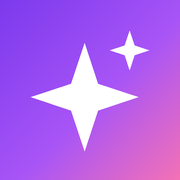
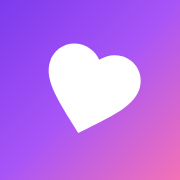
Add files via upload

Changed region(s): [[0.1667, 0.1667, 0.8333, 0.8333]]

diff --git a/style.css b/style.css
@@ -54,14 +54,10 @@ button:focus-visible{outline:2px solid var(--brand);outline-offset:2px}
 *{-webkit-tap-highlight-color:transparent}
 button,.card,.room,.gt,.ib{-webkit-user-select:none;user-select:none;-webkit-touch-callout:none;touch-action:manipulation}
 
-/* ── Logo with spark ── */
+/* ── Logo ── */
 .logo-wrap{display:flex;align-items:center;gap:0}
[1 lines of base64/hex data omitted]
 .logo{font-family:'Bricolage Grotesque','Manrope',system-ui,sans-serif;font-size:30px;font-weight:800;letter-spacing:-1.2px;background:var(--grad);-webkit-background-clip:text;background-clip:text;color:transparent;-webkit-text-fill-color:transparent;padding-right:2px}
-.logo-spark{font-size:20px;display:inline-block;margin-left:3px;animation:sparkle 3.5s ease-in-out infinite;will-change:transform,opacity;transform-origin:center}
-@keyframes sparkle{
-  0%,100%{transform:scale(.9) rotate(0deg);opacity:1}
-  50%{transform:scale(1.2) rotate(12deg);opacity:.55}
-}
 
 .ib{background:var(--card);border:1px solid var(--line);width:42px;height:42px;border-radius:14px;display:grid;place-items:center;cursor:pointer;box-shadow:0 6px 16px -8px var(--glow);transition:.2s}
 .ib:active{transform:scale(.92)}
@@ -202,7 +198,7 @@ nav button.on::before{content:"";position:absolute;top:-9px;width:30px;height:4p
 .wave-btn{animation:wave 1.8s ease-in-out infinite;transform-origin:70% 70%;display:inline-block}
 @keyframes wave{0%,100%{transform:rotate(0deg)}15%{transform:rotate(14deg)}30%{transform:rotate(-8deg)}40%{transform:rotate(10deg)}50%{transform:rotate(-4deg)}60%{transform:rotate(0deg)}}
 
-@media(prefers-reduced-motion:reduce){*:not(.fab):not(.logo-spark):not(.mod):not(.sheet){transition:none!important;animation:none!important}}
+@media(prefers-reduced-motion:reduce){*:not(.fab):not(.mod):not(.sheet){transition:none!important;animation:none!important}}
 
 .fc.on{background:var(--grad) border-box}
 .me-body,.col-l,.col-r{display:contents}
@@ -306,8 +302,8 @@ nav button.on::before{content:"";position:absolute;top:-9px;width:30px;height:4p
 
   nav{top:0;bottom:0;left:max(0px,calc(50% - 680px));transform:none;width:72px;max-width:none;overflow:hidden;white-space:nowrap;flex-direction:column;justify-content:flex-start;gap:6px;padding:24px 14px;border-top:0;border-right:1px solid var(--line);box-shadow:none;background:color-mix(in srgb,var(--card) 70%,transparent);transition:width .25s var(--ease),box-shadow .25s,background .25s}
   nav:hover,nav:has(:focus-visible){width:240px;background:var(--card);box-shadow:20px 0 50px -20px var(--glow)}
-  nav::before{content:"✦";display:block;padding:4px 11px 26px;font-size:32px;font-weight:800;letter-spacing:-1.2px;background:var(--grad);-webkit-background-clip:text;background-clip:text;color:transparent;-webkit-text-fill-color:transparent}
-  nav:hover::before,nav:has(:focus-visible)::before{content:"iLike ✦"}
[1 lines of base64/hex data omitted]
+  nav:hover::before,nav:has(:focus-visible)::before{width:96px}
   nav button{flex:none;width:100%;overflow:hidden;flex-direction:row;justify-content:flex-start;gap:14px;padding:13px 11px;border-radius:16px;font-size:15px;transition:background .2s,color .2s}
   nav button svg{flex:none}
   nav button:hover{background:color-mix(in srgb,var(--brand) 10%,transparent);color:var(--text)}
@@ -750,11 +746,6 @@ body{
   padding-right:max(18px,env(safe-area-inset-right,0px));
   border-bottom-color:color-mix(in srgb,var(--line) 72%,transparent);
 }
-.logo-spark{
-  width:18px;height:18px;margin-left:4px;
-  animation:none;will-change:auto;color:var(--brand);
-}
-.logo-spark svg{display:block;width:100%;height:100%;fill:currentColor;stroke:none}
 
 .card{
   border-radius:20px;

diff --git a/index.html b/index.html
@@ -11,9 +11,9 @@
 <link rel="manifest" href="manifest.webmanifest">
 <link rel="icon" type="image/png" href="assets/icon-192.png">
 <link rel="apple-touch-icon" href="assets/apple-touch-icon.png">
-<title>iLike ✦</title>
+<title>iLike</title>
 <meta name="description" content="Find people who like what you like.">
-<meta property="og:title" content="iLike ✦">
+<meta property="og:title" content="iLike">
 <meta property="og:description" content="Find people who like what you like.">
 <meta property="og:type" content="website">
 <meta name="twitter:card" content="summary_large_image">
@@ -27,18 +27,18 @@
 <div id="app">
 
 <section class="screen on" id="s-auth">
-<div class="top"><span class="logo-wrap"><span class="logo">iLike</span><span class="logo-spark" aria-hidden="true"><svg viewBox="0 0 24 24"><path d="M12 2.5 14.7 9.3 21.5 12l-6.8 2.7L12 21.5l-2.7-6.8L2.5 12l6.8-2.7L12 2.5Z"/></svg></span></span></div>
+<div class="top"><span class="logo-wrap"><span class="logo-mark" role="img" aria-label="iLike"></span></span></div>
 <div class="pscroll"><p class="mute" style="margin:18px 18px 0;text-align:center">Find people who like what you like.</p><div class="card" id="af"></div></div>
 </section>
 
 <section class="screen" id="s-onb">
-<div class="top"><span class="logo-wrap"><span class="logo">iLike</span><span class="logo-spark" aria-hidden="true"><svg viewBox="0 0 24 24"><path d="M12 2.5 14.7 9.3 21.5 12l-6.8 2.7L12 21.5l-2.7-6.8L2.5 12l6.8-2.7L12 2.5Z"/></svg></span></span></div>
+<div class="top"><span class="logo-wrap"><span class="logo-mark" role="img" aria-label="iLike"></span></span></div>
 <div class="pscroll"><div id="ob"></div></div>
 </section>
 
 <section class="screen" id="s-home">
 <div class="top">
-  <span class="logo-wrap"><span class="logo">iLike</span><span class="logo-spark" aria-hidden="true"><svg viewBox="0 0 24 24"><path d="M12 2.5 14.7 9.3 21.5 12l-6.8 2.7L12 21.5l-2.7-6.8L2.5 12l6.8-2.7L12 2.5Z"/></svg></span></span>
+  <span class="logo-wrap"><span class="logo-mark" role="img" aria-label="iLike"></span></span>
   <div style="display:flex;gap:8px">
     <button class="ib" onclick="openNotifs()" aria-label="Notifications"><svg viewBox="0 0 24 24"><path d="M6 8a6 6 0 0 1 12 0c0 7 3 9 3 9H3s3-2 3-9"/><path d="M10.3 21a1.94 1.94 0 0 0 3.4 0"/></svg><i class="badge" id="nb" hidden></i></button>
   </div>
